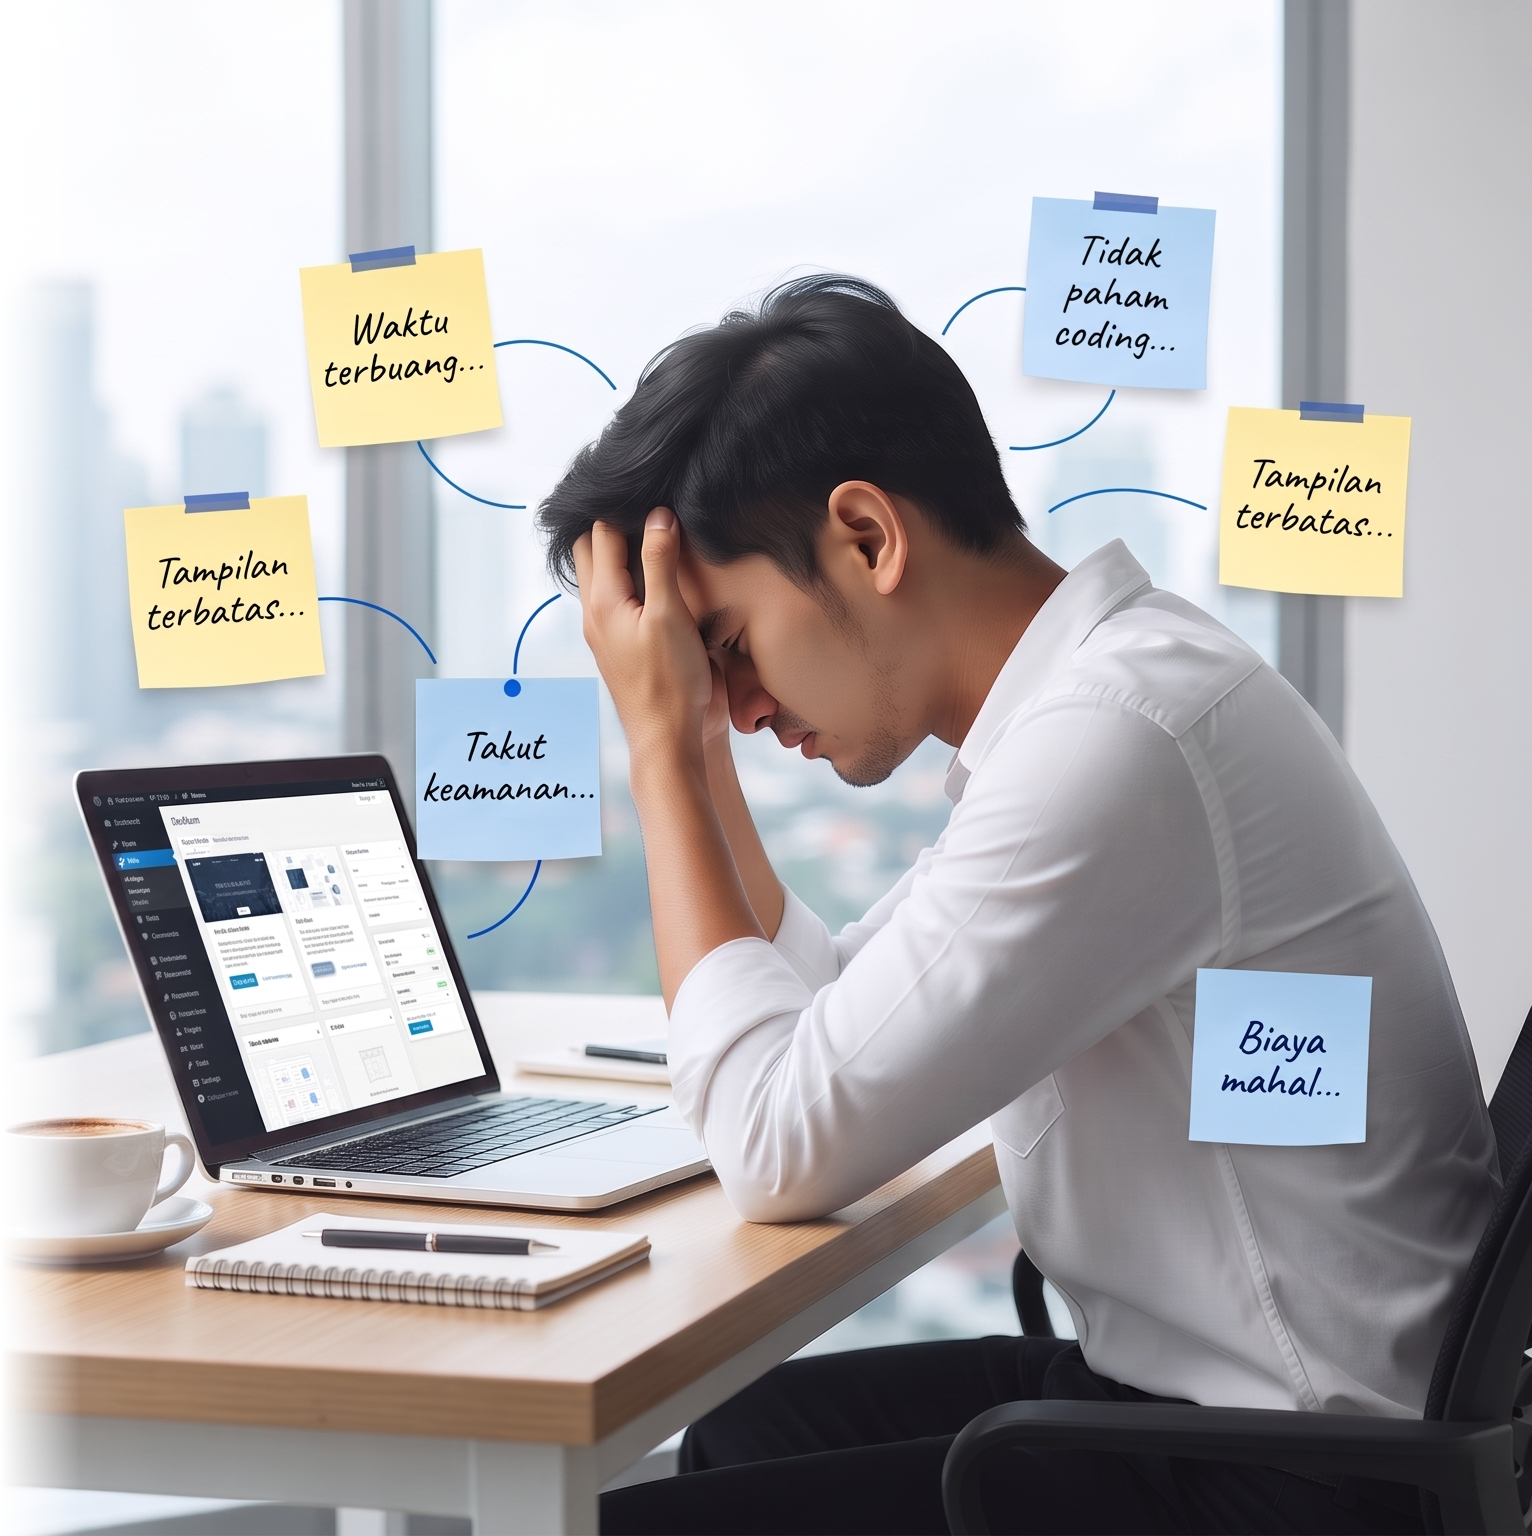
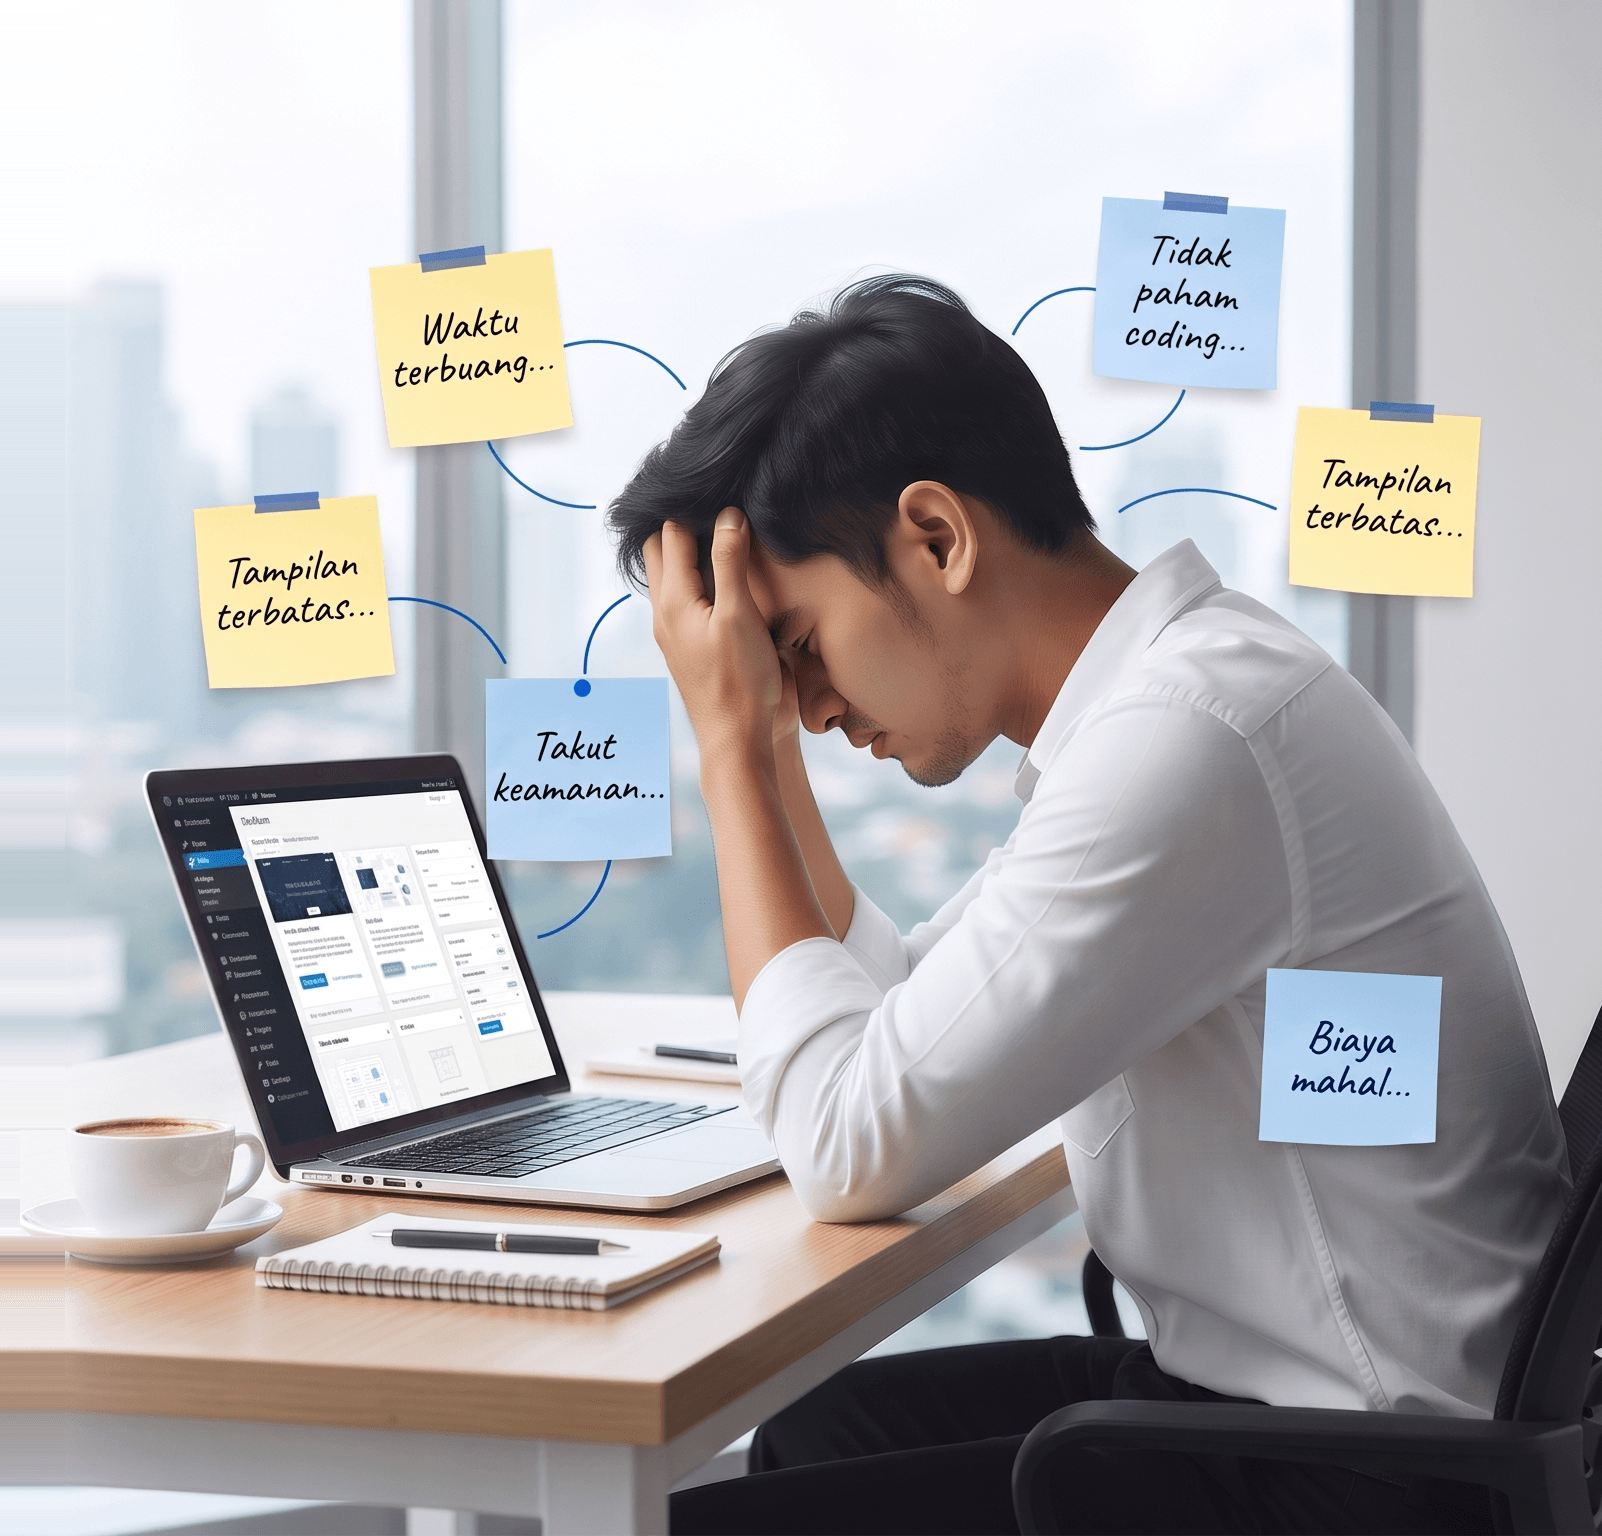
web: pindahkan ilustrasi section 2 ke kiri dan perbesar proporsi mendekati full section

diff --git a/OrgSpace-Website/src/app/(site)/page.tsx b/OrgSpace-Website/src/app/(site)/page.tsx
@@ -401,9 +401,23 @@ export default async function LandingPage() {
         </div>
 
         <div className="relative z-10 mx-auto max-w-7xl px-4 sm:px-6 lg:px-8">
-          <div className="grid items-center gap-10 lg:grid-cols-12 lg:gap-12">
-            {/* Kolom Kiri: Teks & 6 Poin Masalah (Persis Gambar Referensi) */}
-            <div className="lg:col-span-6 text-left z-10 min-w-0">
+          <div className="grid items-center gap-10 lg:grid-cols-12 lg:gap-8 xl:gap-12">
+            {/* Kolom Kiri: Visual Orang Tertekan dengan Laptop & Sticky Notes (Hampir Full Section) */}
+            <div className="lg:col-span-7 relative flex justify-center lg:justify-start items-center">
+              <div className="relative w-full max-w-2xl lg:max-w-none transition-transform duration-500 hover:scale-[1.01] flex justify-center">
+                <Image
+                  src="/images/problem-illustration-clean.png"
+                  alt="Ilustrasi kesulitan dan kebingungan mengelola website sendiri"
+                  width={1602}
+                  height={1536}
+                  className="w-full h-auto object-contain select-none drop-shadow-md rounded-2xl lg:rounded-3xl"
+                  priority={false}
+                />
+              </div>
+            </div>
+
+            {/* Kolom Kanan: Teks & 6 Poin Masalah (Persis Gambar Referensi) */}
+            <div className="lg:col-span-5 text-left z-10 min-w-0">
               <h2 className="text-2xl xs:text-3xl sm:text-4xl md:text-[44px] lg:text-[48px] font-black tracking-tight text-[#0B1E36] leading-[1.18] sm:leading-[1.12]">
                 Masih ribet kelola<br />
                 website sendiri?
@@ -506,19 +520,7 @@ export default async function LandingPage() {
               </div>
             </div>
 
-            {/* Kolom Kanan: Visual Orang Tertekan dengan Laptop & Sticky Notes */}
-            <div className="lg:col-span-6 relative flex justify-center lg:justify-end items-center">
-              <div className="relative w-full max-w-lg lg:max-w-xl transition-transform duration-500 hover:scale-[1.02]">
-                <Image
-                  src="/images/problem-illustration-clean.png"
-                  alt="Ilustrasi kesulitan dan kebingungan mengelola website sendiri"
-                  width={1532}
-                  height={1536}
-                  className="w-full h-auto object-contain select-none drop-shadow-sm"
-                  priority={false}
-                />
-              </div>
-            </div>
+
           </div>
         </div>
       </section>
